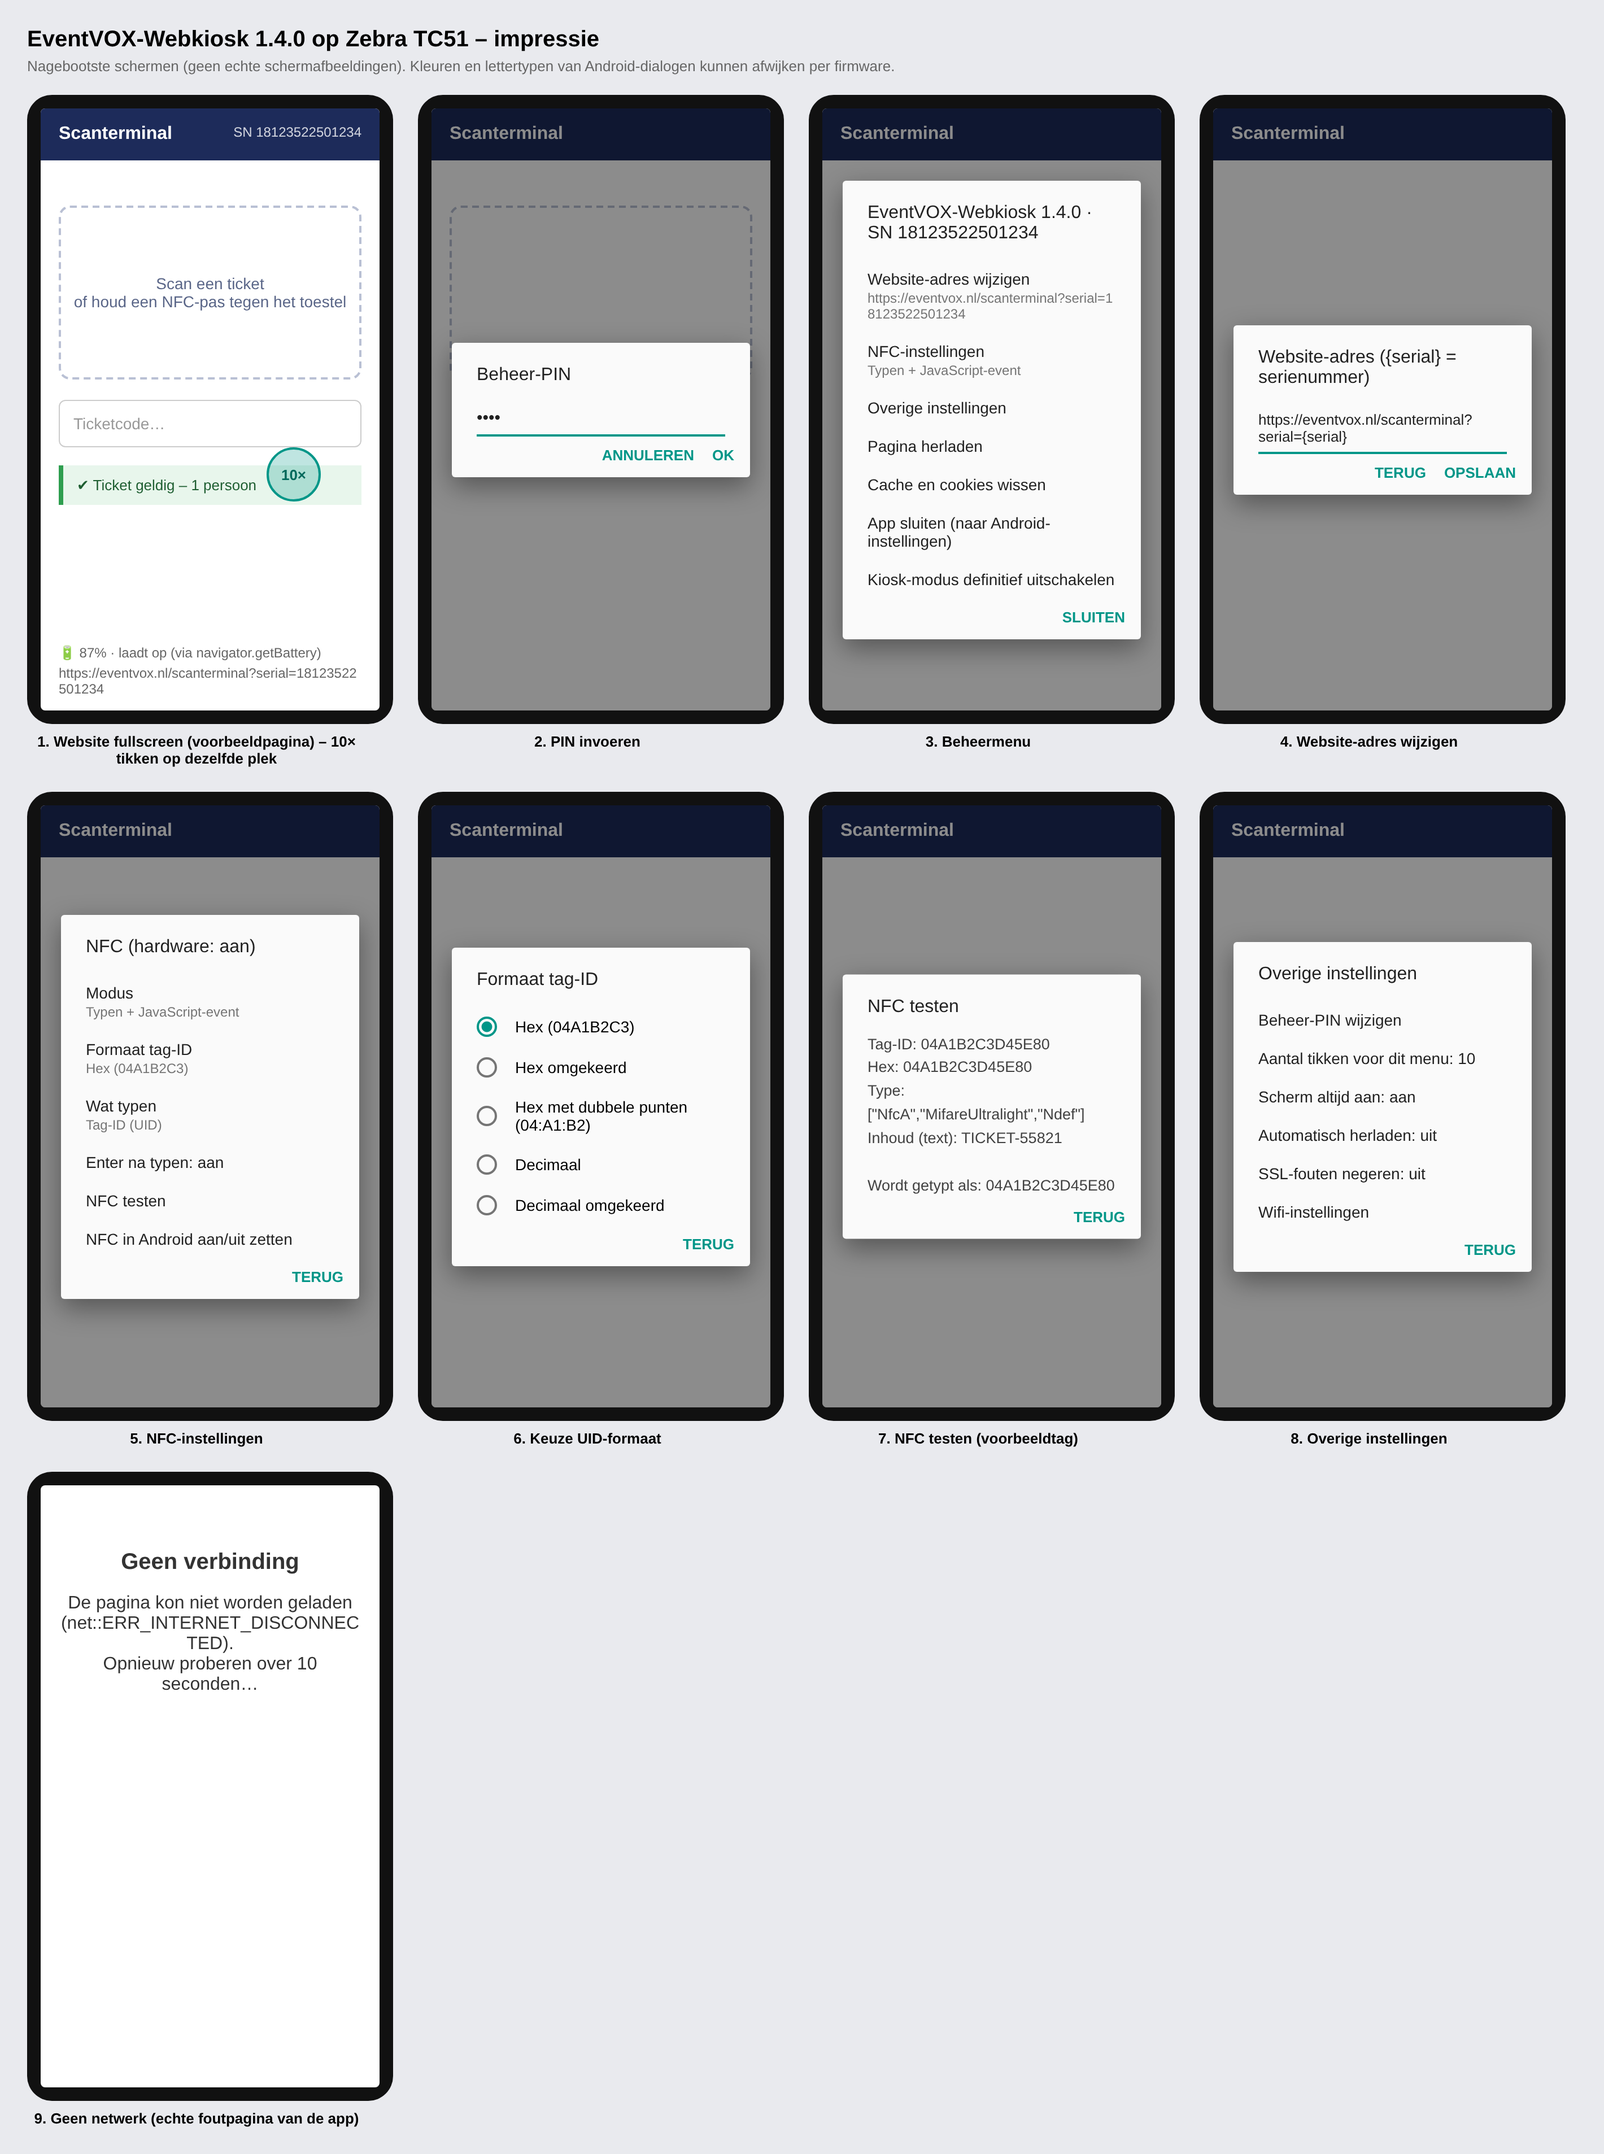
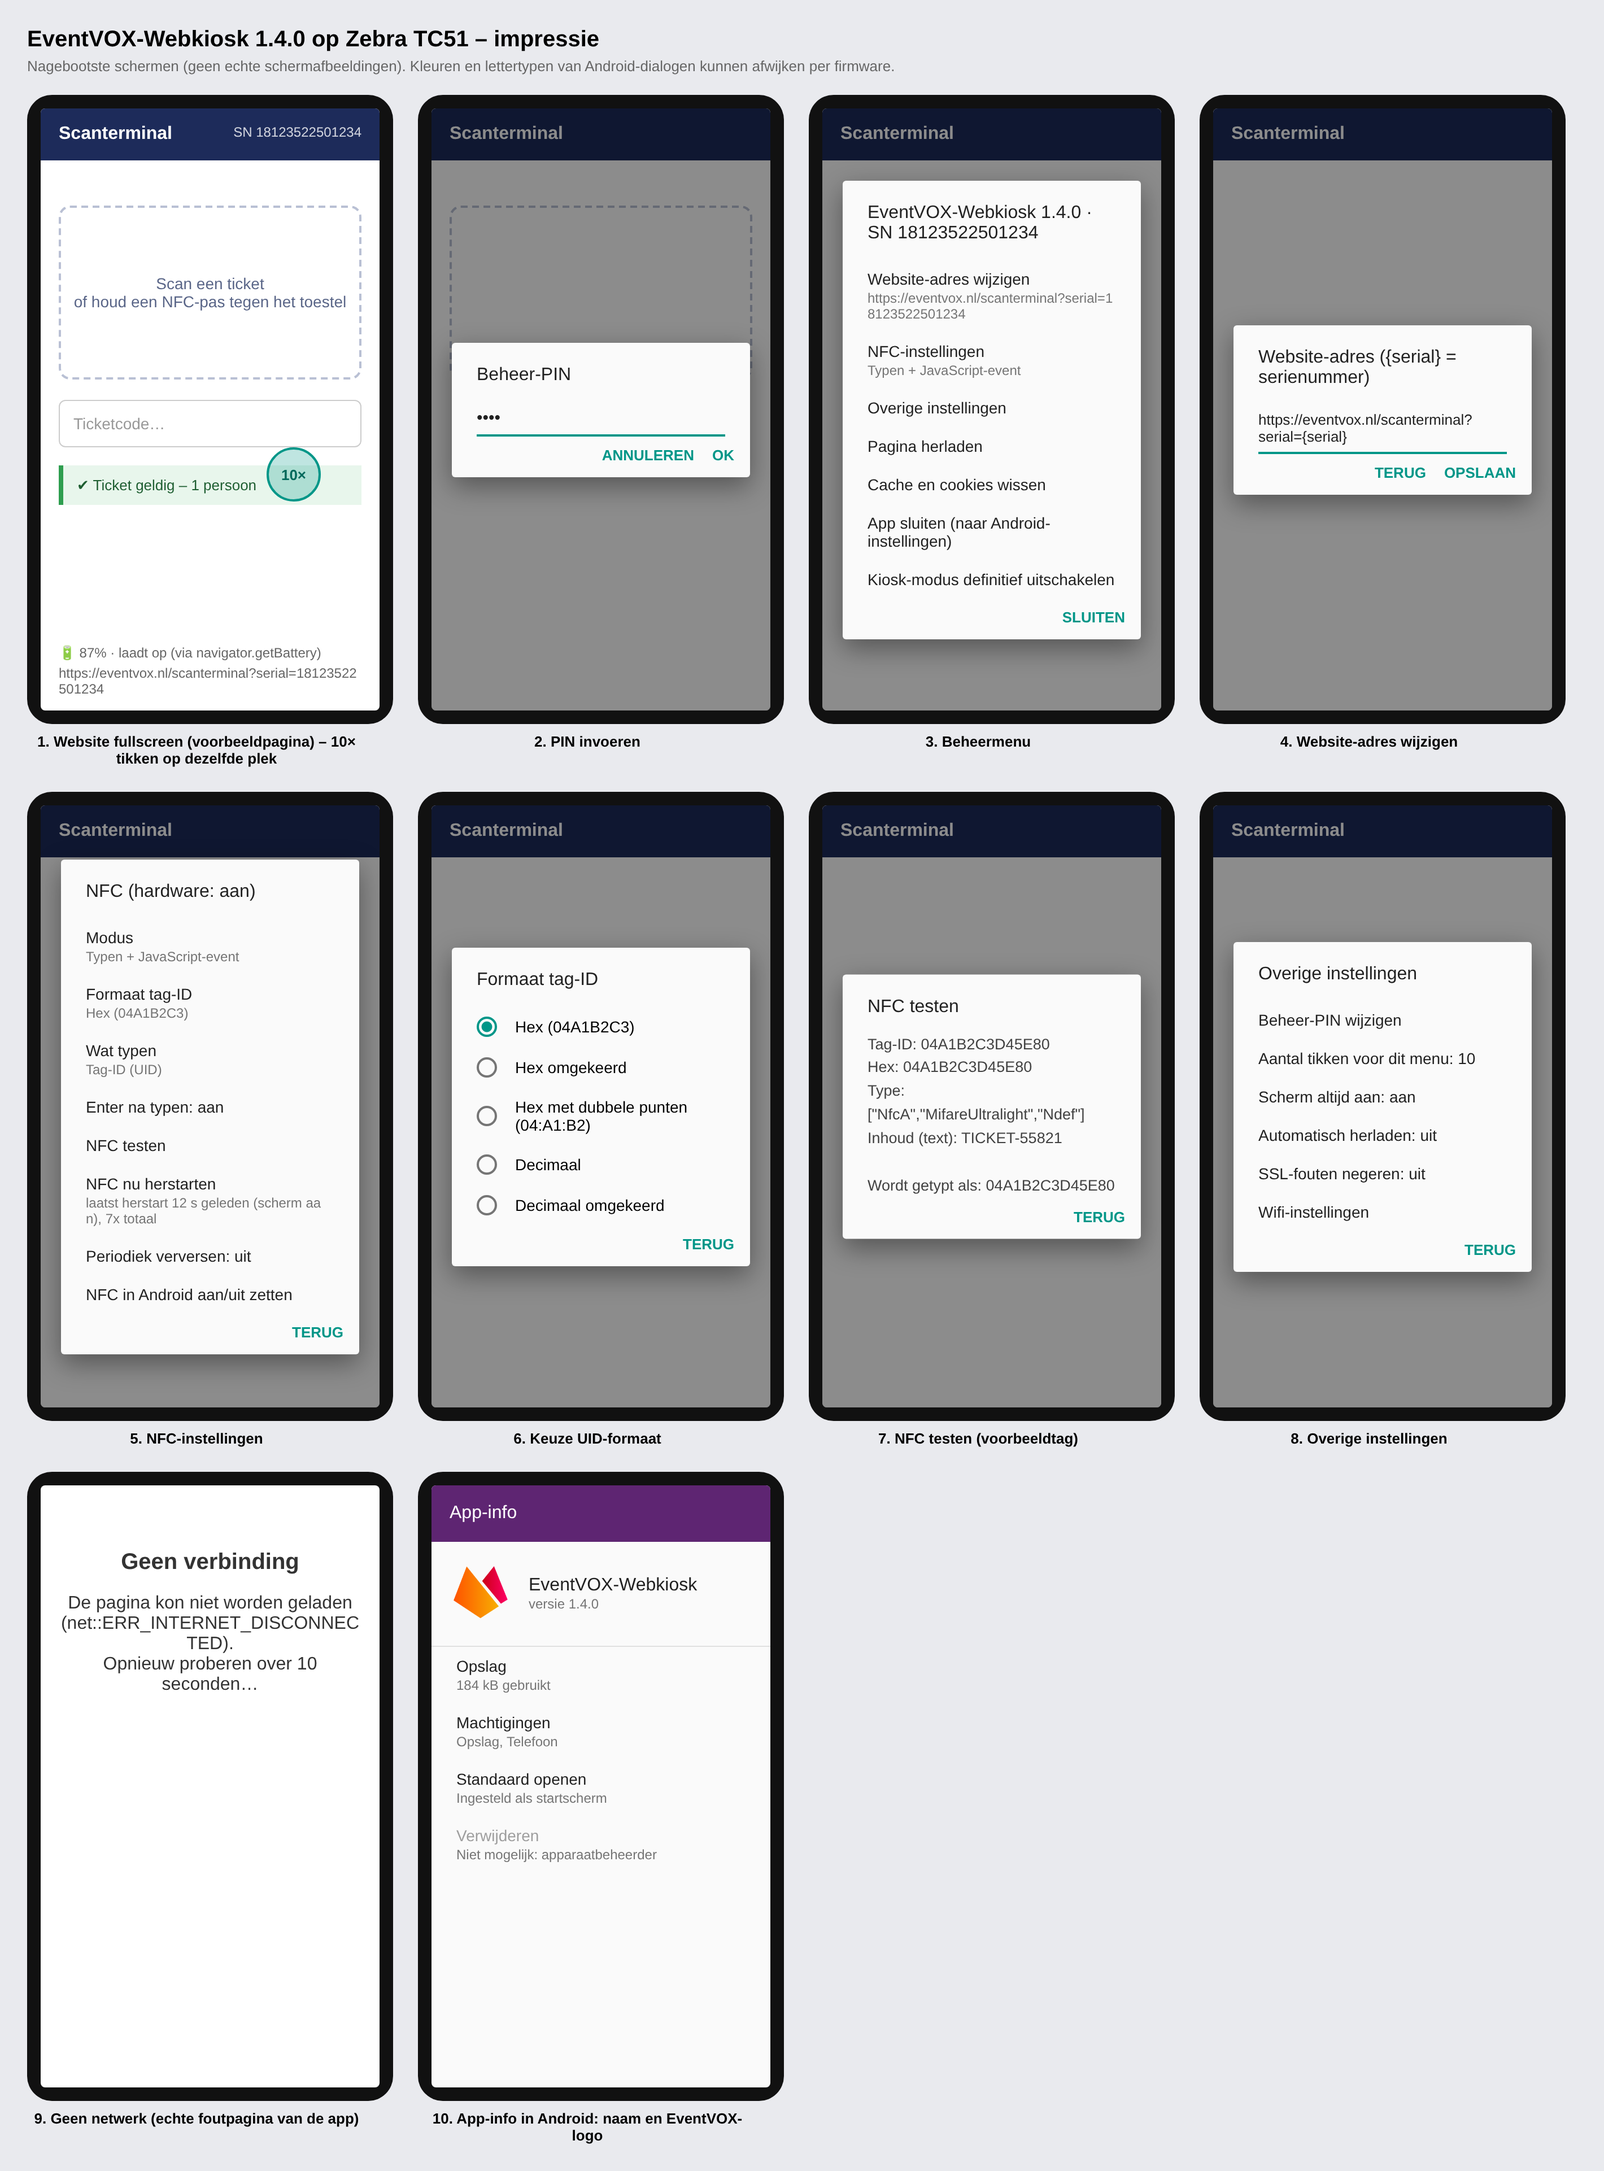
NFC na slaapstand: reader mode opnieuw registreren
Bij scherm aan, ontgrendelen, venster-focus en NFC-aan wordt reader mode
opnieuw geregistreerd (met tweede poging na 1,5 s). Zelfde tag binnen
nfc_debounce_ms wordt genegeerd; optioneel periodiek verversen
(nfc_refresh_seconds). Beheermenu: NFC nu herstarten met status.
Impressie bijgewerkt met nieuwe naam, NFC-menu en app-icoon.

Claude-Session: https://claude.ai/code/session_01XbTwMgGc6w6z84iXdLw6t1

diff --git a/screenshots/mock.html b/screenshots/mock.html
@@ -77,6 +77,8 @@ h1{font-size:20px;margin:0 0 4px} .sub{color:#666;font-size:13px;margin-bottom:1
    <div class="item">Wat typen<small>Tag-ID (UID)</small></div>
    <div class="item">Enter na typen: aan</div>
    <div class="item">NFC testen</div>
+   <div class="item">NFC nu herstarten<small>laatst herstart 12 s geleden (scherm aan), 7x totaal</small></div>
+   <div class="item">Periodiek verversen: uit</div>
    <div class="item">NFC in Android aan/uit zetten</div>
    <div class="btns"><span class="btn">Terug</span></div></div>
 </div></div><div class="cap">5. NFC-instellingen</div></div>
@@ -122,5 +124,16 @@ Wordt getypt als: 04A1B2C3D45E80</div>
 <div><div class="phone"><div class="scr">
   <div class="err"><h2>Geen verbinding</h2><p>De pagina kon niet worden geladen (net::ERR_INTERNET_DISCONNECTED).<br>Opnieuw proberen over 10 seconden…</p></div>
 </div></div><div class="cap">9. Geen netwerk (echte foutpagina van de app)</div></div>
+
+<div><div class="phone"><div class="scr" style="background:#fafafa">
+  <div style="background:#5e2572;color:#fff;padding:16px;font-size:16px">App-info</div>
+  <div style="display:flex;align-items:center;gap:14px;padding:18px 16px;border-bottom:1px solid #e0e0e0">
+    <img src="../app/res/mipmap-xxxhdpi/ic_launcher.png" style="width:56px;height:56px"><div><div style="font-size:16px;color:#212121">EventVOX-Webkiosk</div>
+    <div style="font-size:12px;color:#757575">versie 1.4.0</div></div></div>
+  <div class="item">Opslag<small>184 kB gebruikt</small></div>
+  <div class="item">Machtigingen<small>Opslag, Telefoon</small></div>
+  <div class="item">Standaard openen<small>Ingesteld als startscherm</small></div>
+  <div class="item" style="color:#9e9e9e">Verwijderen<small>Niet mogelijk: apparaatbeheerder</small></div>
+</div></div><div class="cap">10. App-info in Android: naam en EventVOX-logo</div></div>
 
 </div></body></html>

diff --git a/app/src/nl/webkiosk/MainActivity.java b/app/src/nl/webkiosk/MainActivity.java
@@ -147,6 +147,10 @@ public class MainActivity extends Activity {
         }, "WebKiosk");
 
         lastBattery = registerReceiver(batteryReceiver, new IntentFilter(Intent.ACTION_BATTERY_CHANGED));
+        IntentFilter wf = new IntentFilter(Intent.ACTION_SCREEN_ON);
+        wf.addAction(Intent.ACTION_USER_PRESENT);
+        wf.addAction(NfcAdapter.ACTION_ADAPTER_STATE_CHANGED);
+        registerReceiver(wakeReceiver, wf);
 
         setContentView(web);
         loadHome();
@@ -194,6 +198,10 @@ public class MainActivity extends Activity {
             for (String key : new String[]{"nfc_mode", "nfc_uid_format", "nfc_keyboard_value"}) {
                 String v = p.getProperty(key);
                 if (v != null && !v.trim().isEmpty()) e.putString(key, v.trim().toLowerCase());
+            }
+            for (String key : new String[]{"nfc_refresh_seconds", "nfc_debounce_ms"}) {
+                String v = p.getProperty(key);
+                if (v != null) try { e.putInt(key, Integer.parseInt(v.trim())); } catch (NumberFormatException ignored) {}
             }
             String ne = p.getProperty("nfc_send_enter");
             if (ne != null) e.putBoolean("nfc_send_enter", Boolean.parseBoolean(ne.trim()));
@@ -367,19 +375,24 @@ public class MainActivity extends Activity {
             kioskSuspended = false;
             applyDeviceOwnerPolicies();
         }
+        resumed = true;
         hideSystemUi();
         enterKiosk();
-        startNfc();
+        restartNfc("onResume");
+        schedulePeriodicNfcRefresh();
     }
 
     @Override protected void onPause() {
+        resumed = false;
+        handler.removeCallbacks(nfcRestart);
+        handler.removeCallbacks(nfcPeriodic);
         if (nfc != null) try { nfc.disableReaderMode(this); } catch (Exception ignored) {}
         super.onPause();
     }
 
     @Override public void onWindowFocusChanged(boolean f) {
         super.onWindowFocusChanged(f);
-        if (f) hideSystemUi();
+        if (f) { hideSystemUi(); restartNfc("focus"); }
     }
 
     @Override protected void onNewIntent(Intent i) {
@@ -403,9 +416,67 @@ public class MainActivity extends Activity {
     // ---------- NFC ----------
 
     private void startNfc() {
-        if (nfc == null || "off".equals(prefs.getString("nfc_mode", "both"))) return;
+        if (nfc == null) return;
+        if ("off".equals(prefs.getString("nfc_mode", "both")) && nfcTestDialog == null) return;
         startNfcForced();
     }
+
+    /*
+     * Bekend Android-probleem: na slaapstand (scherm uit/aan) is reader mode soms niet meer actief,
+     * omdat enableReaderMode() in onResume te vroeg komt (NFC-dienst ziet de app nog niet als voorgrond)
+     * of omdat de NFC-chip na het ontwaken opnieuw wordt opgestart. Oplossing: reader mode opnieuw
+     * registreren bij scherm-aan, ontgrendelen, venster-focus en NFC-aan, elk met een korte vertraging
+     * en een tweede poging. Optioneel daarnaast periodiek verversen (nfc_refresh_seconds).
+     */
+    private boolean resumed = false;
+    private String nfcRestartReason = "";
+    private long nfcLastRestart = 0;
+    private int nfcRestarts = 0;
+    private final Runnable nfcRestart = new Runnable() {
+        public void run() {
+            if (!resumed || nfc == null) return;
+            try { nfc.disableReaderMode(MainActivity.this); } catch (Exception ignored) {}
+            startNfc();
+            nfcLastRestart = System.currentTimeMillis();
+            nfcRestarts++;
+        }
+    };
+    private final Runnable nfcPeriodic = new Runnable() {
+        public void run() {
+            if (resumed && System.currentTimeMillis() - lastTagTime > 3000) restartNfc("periodiek");
+            schedulePeriodicNfcRefresh();
+        }
+    };
+
+    private void restartNfc(String reason) {
+        if (nfc == null) return;
+        nfcRestartReason = reason;
+        handler.removeCallbacks(nfcRestart);
+        handler.postDelayed(nfcRestart, 400);
+        handler.postDelayed(nfcRestart, 1500); // tweede poging: NFC-chip is soms nog niet klaar
+    }
+
+    private void schedulePeriodicNfcRefresh() {
+        handler.removeCallbacks(nfcPeriodic);
+        int sec = prefs.getInt("nfc_refresh_seconds", 0);
+        if (sec > 0) handler.postDelayed(nfcPeriodic, sec * 1000L);
+    }
+
+    private final BroadcastReceiver wakeReceiver = new BroadcastReceiver() {
+        @Override public void onReceive(Context c, Intent i) {
+            String a = i.getAction();
+            if (NfcAdapter.ACTION_ADAPTER_STATE_CHANGED.equals(a)) {
+                if (i.getIntExtra(NfcAdapter.EXTRA_ADAPTER_STATE, 0) == NfcAdapter.STATE_ON) restartNfc("NFC aan");
+            } else if (Intent.ACTION_SCREEN_ON.equals(a)) {
+                restartNfc("scherm aan");
+            } else if (Intent.ACTION_USER_PRESENT.equals(a)) {
+                restartNfc("ontgrendeld");
+            }
+        }
+    };
+
+    private long lastTagTime = 0;
+    private String lastTagUid = "";
 
     private void startNfcForced() {
         if (nfc == null) return;
@@ -421,6 +492,11 @@ public class MainActivity extends Activity {
     /** Wordt op een achtergrondthread aangeroepen. */
     private void handleTag(Tag tag) {
         final String uid = formatUid(tag.getId());
+        long now = System.currentTimeMillis();
+        boolean dup = uid.equals(lastTagUid) && now - lastTagTime < prefs.getInt("nfc_debounce_ms", 1500);
+        lastTagTime = now;
+        lastTagUid = uid;
+        if (dup) return; // zelfde tag nog in het veld (bv. na herstart reader mode): niet dubbel doorgeven
         final JSONObject o = new JSONObject();
         final JSONArray records = new JSONArray();
         String firstText = null;
@@ -653,6 +729,8 @@ public class MainActivity extends Activity {
             "Wat typen\n" + labelOf(NFC_VAL_L, NFC_VAL_V, prefs.getString("nfc_keyboard_value", "uid")),
             "Enter na typen: " + onOff(prefs.getBoolean("nfc_send_enter", true)),
             "NFC testen",
+            "NFC nu herstarten\n" + nfcStatus(),
+            "Periodiek verversen: " + (prefs.getInt("nfc_refresh_seconds", 0) > 0 ? "elke " + prefs.getInt("nfc_refresh_seconds", 0) + " s" : "uit"),
             "NFC in Android aan/uit zetten"
         };
         list("NFC (hardware: " + hw + ")", items, new Choice() {
@@ -663,7 +741,14 @@ public class MainActivity extends Activity {
                     case 2: single("Wat typen", NFC_VAL_L, NFC_VAL_V, prefs.getString("nfc_keyboard_value", "uid"), "nfc_keyboard_value", self); break;
                     case 3: prefs.edit().putBoolean("nfc_send_enter", !prefs.getBoolean("nfc_send_enter", true)).apply(); nfcMenu(); break;
                     case 4: nfcTest(self); break;
-                    case 5: kioskSuspended = true;
+                    case 5: restartNfc("handmatig"); toast("NFC wordt herstart");
+                            handler.postDelayed(new Runnable() { public void run() { nfcMenu(); } }, 1800); break;
+                    case 6: input("Reader mode elke X seconden verversen (0 = uit)", String.valueOf(prefs.getInt("nfc_refresh_seconds", 0)),
+                            InputType.TYPE_CLASS_NUMBER, new Choice() { public void chosen(int x) {
+                                try { prefs.edit().putInt("nfc_refresh_seconds", Math.max(0, Integer.parseInt(inputValue))).apply(); }
+                                catch (NumberFormatException e) { toast("Ongeldig getal"); }
+                                schedulePeriodicNfcRefresh(); nfcMenu(); } }, self); break;
+                    case 7: kioskSuspended = true;
                             try { stopLockTask(); } catch (Exception ignored) {}
                             try { startActivity(new Intent(Settings.ACTION_NFC_SETTINGS)); }
                             catch (Exception e) { startActivity(new Intent(Settings.ACTION_WIRELESS_SETTINGS)); }
@@ -673,9 +758,14 @@ public class MainActivity extends Activity {
         }, new Runnable() { public void run() { adminMenu(); } });
     }
 
+    private String nfcStatus() {
+        if (nfcLastRestart == 0) return "nog niet herstart";
+        long ago = (System.currentTimeMillis() - nfcLastRestart) / 1000;
+        return "laatst herstart " + ago + " s geleden (" + nfcRestartReason + "), " + nfcRestarts + "x totaal";
+    }
+
     private void nfcTest(final Runnable back) {
         if (nfc == null) { toast("Dit toestel heeft geen NFC"); back.run(); return; }
-        startNfcForced();
         nfcTestDialog = new AlertDialog.Builder(this).setTitle("NFC testen")
             .setMessage("Houd een tag tegen de achterkant van het toestel…")
             .setNegativeButton("Terug", new DialogInterface.OnClickListener() {
@@ -685,6 +775,8 @@ public class MainActivity extends Activity {
             public void onDismiss(DialogInterface d) { nfcTestDialog = null; applyRuntimeSettings(); }
         });
         nfcTestDialog.show();
+        lastTagUid = ""; // in testmodus elke tag tonen
+        restartNfc("test");
     }
 
     private void otherMenu() {
@@ -745,8 +837,8 @@ public class MainActivity extends Activity {
     private void applyRuntimeSettings() {
         if (prefs.getBoolean("keep_screen_on", true)) getWindow().addFlags(WindowManager.LayoutParams.FLAG_KEEP_SCREEN_ON);
         else getWindow().clearFlags(WindowManager.LayoutParams.FLAG_KEEP_SCREEN_ON);
-        if (nfc != null) try { nfc.disableReaderMode(this); } catch (Exception ignored) {}
-        startNfc();
+        restartNfc("instellingen");
+        schedulePeriodicNfcRefresh();
     }
 
     @SuppressWarnings("deprecation")
@@ -779,6 +871,7 @@ public class MainActivity extends Activity {
 
     @Override protected void onDestroy() {
         try { unregisterReceiver(batteryReceiver); } catch (Exception ignored) {}
+        try { unregisterReceiver(wakeReceiver); } catch (Exception ignored) {}
         handler.removeCallbacksAndMessages(null);
         super.onDestroy();
     }

diff --git a/README.md b/README.md
@@ -83,6 +83,18 @@ Instellen in `webkiosk.properties` (`nfc_mode`):
 Veel toegangs- en kassasystemen gebruiken `dec_reversed`; kijk welk formaat jouw systeem verwacht.
 Je kunt alles testen met `nfc-test.html`.
 
+### NFC na slaapstand
+Op Android (ook Zebra) stopt NFC soms na slaapstand: na scherm-uit/aan is de *reader mode* van de app niet meer actief.
+De app vangt dat af door reader mode opnieuw te registreren bij **scherm aan**, **ontgrendelen**, **venster-focus** en
+**NFC weer aan**, steeds met een tweede poging na 1,5 s (de NFC-chip is direct na het ontwaken soms nog niet klaar).
+Een tag die nog tegen het toestel ligt wordt daardoor niet dubbel doorgegeven (`nfc_debounce_ms`, standaard 1500).
+
+Werkt het op een toestel toch niet goed:
+- Beheermenu > NFC > **Periodiek verversen** (of `nfc_refresh_seconds=30`) als extra vangnet;
+- Beheermenu > NFC > **NFC nu herstarten** toont ook wanneer en waarom reader mode het laatst is herstart;
+- `keep_screen_on=true` (standaard) voorkomt slaapstand zolang de app open is. Met het scherm uit leest Android nooit NFC.
+
+
 ## Serienummer in de URL
 Standaard-URL: `https://eventvox.nl/scanterminal?serial={serial}`
 `{serial}` wordt vervangen door het serienummer van het toestel (`{model}` door het model). Eindigt de URL op `serial=`,
